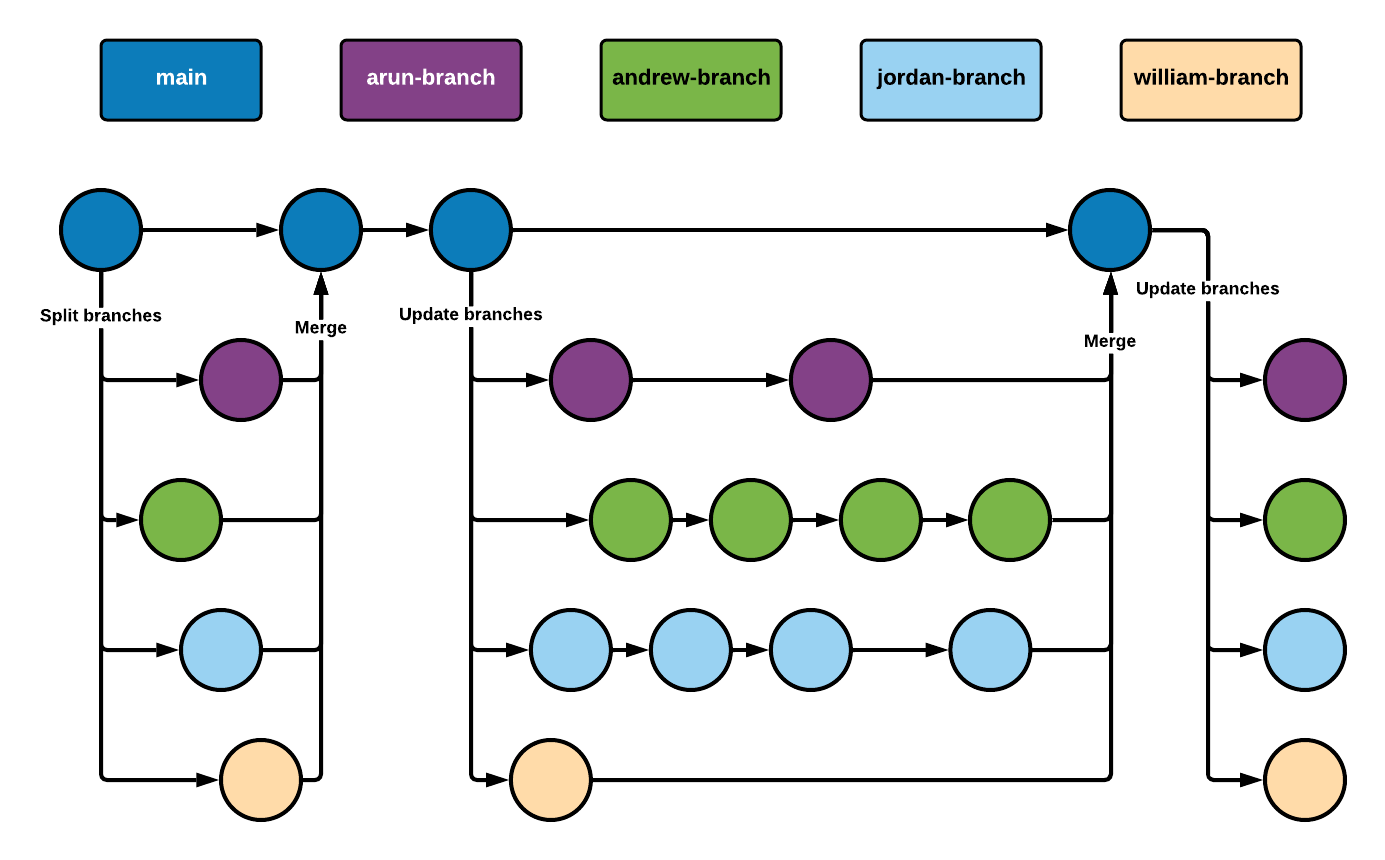
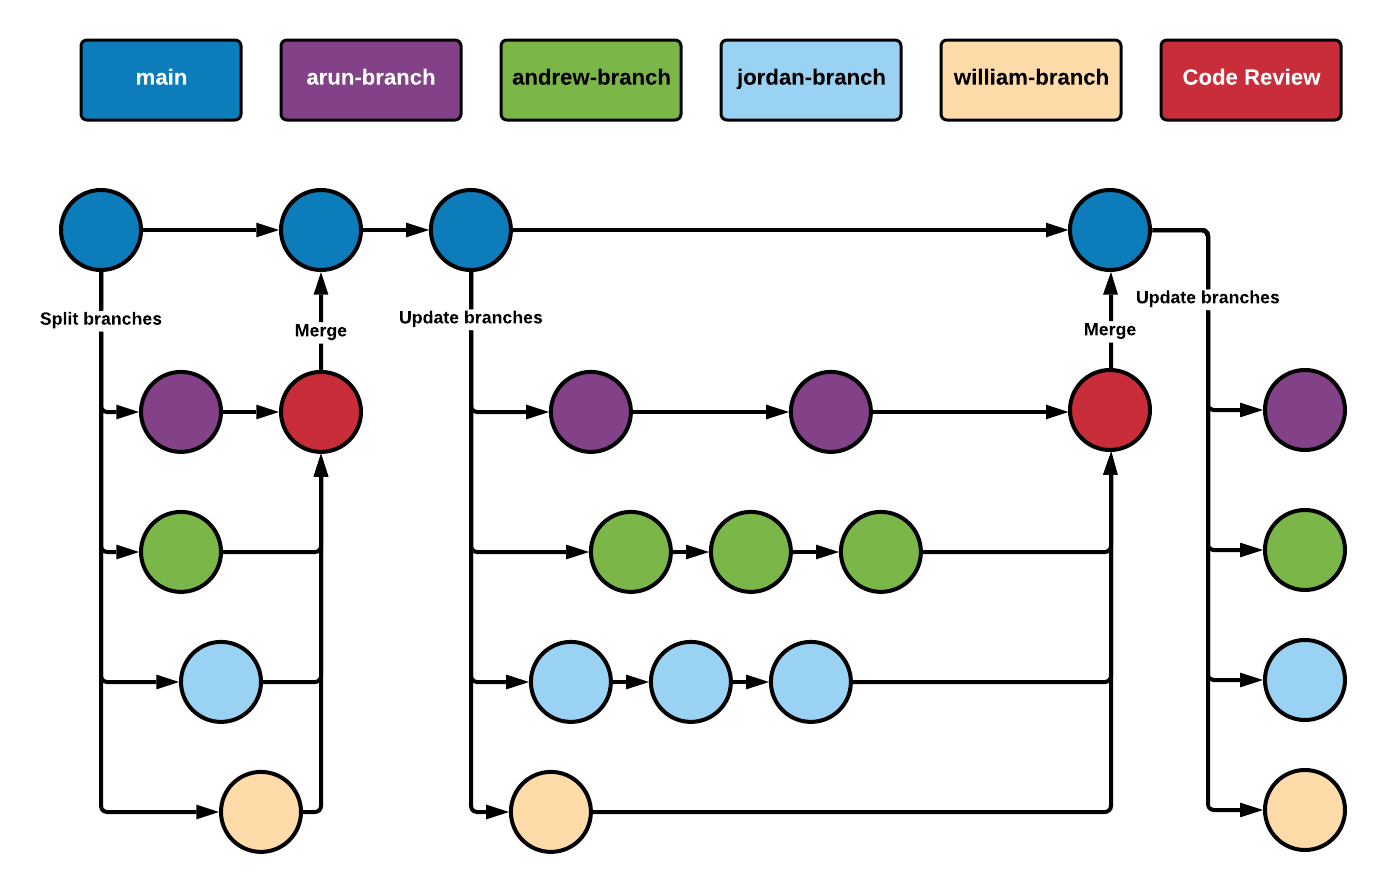
updated Gitflow image

diff --git a/README.md b/README.md
@@ -33,7 +33,7 @@ To design the database we used an ERD diagram.
 - This helped us visualise the database clearly, seeing how our app would connect to our database, this helped us reduce any errors.
 
 ## Gitflow
-The image below is a visualisation of our Gitflow. The main branch is split into a separate branch for each contributor. Each contributor will push their changes to their own branch. After progress has been made, the individual branches will be merged back with the main branch. 
+The image below is a visualisation of our Gitflow. The main branch is split into a separate branch for each contributor. Each contributor will push their changes to their own branch. After progress has been made, there will a code review for each branch. The individual branches will be merged back with the main branch after passing the code review. 
 
 ![img.png](images/gitflow.png)
 
